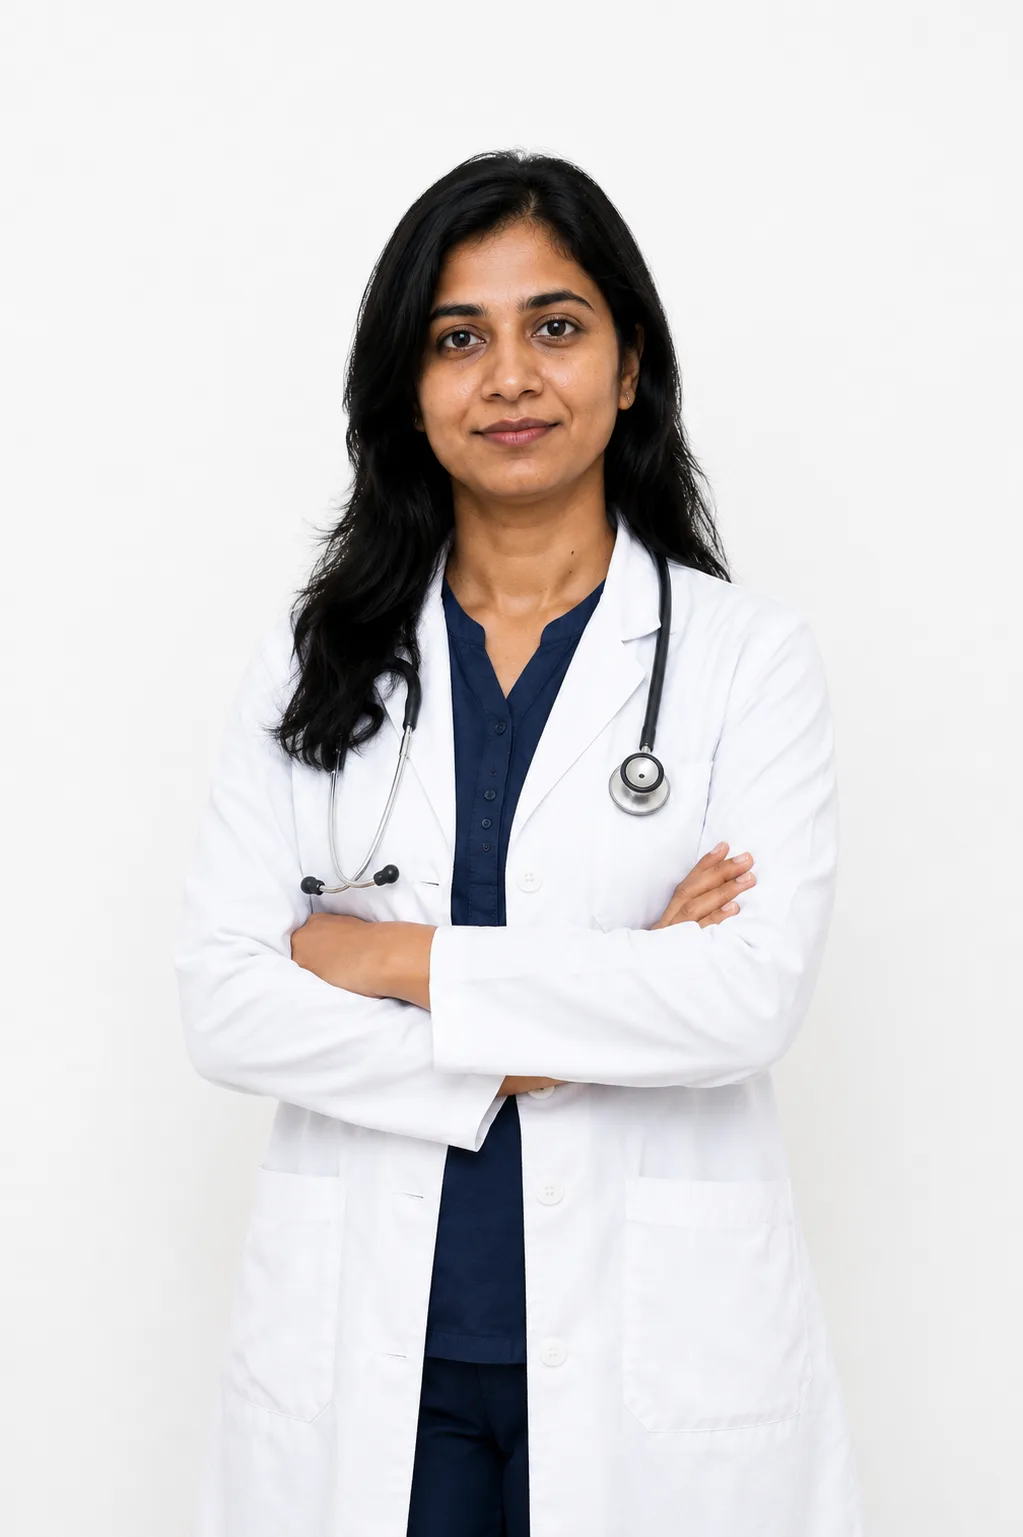
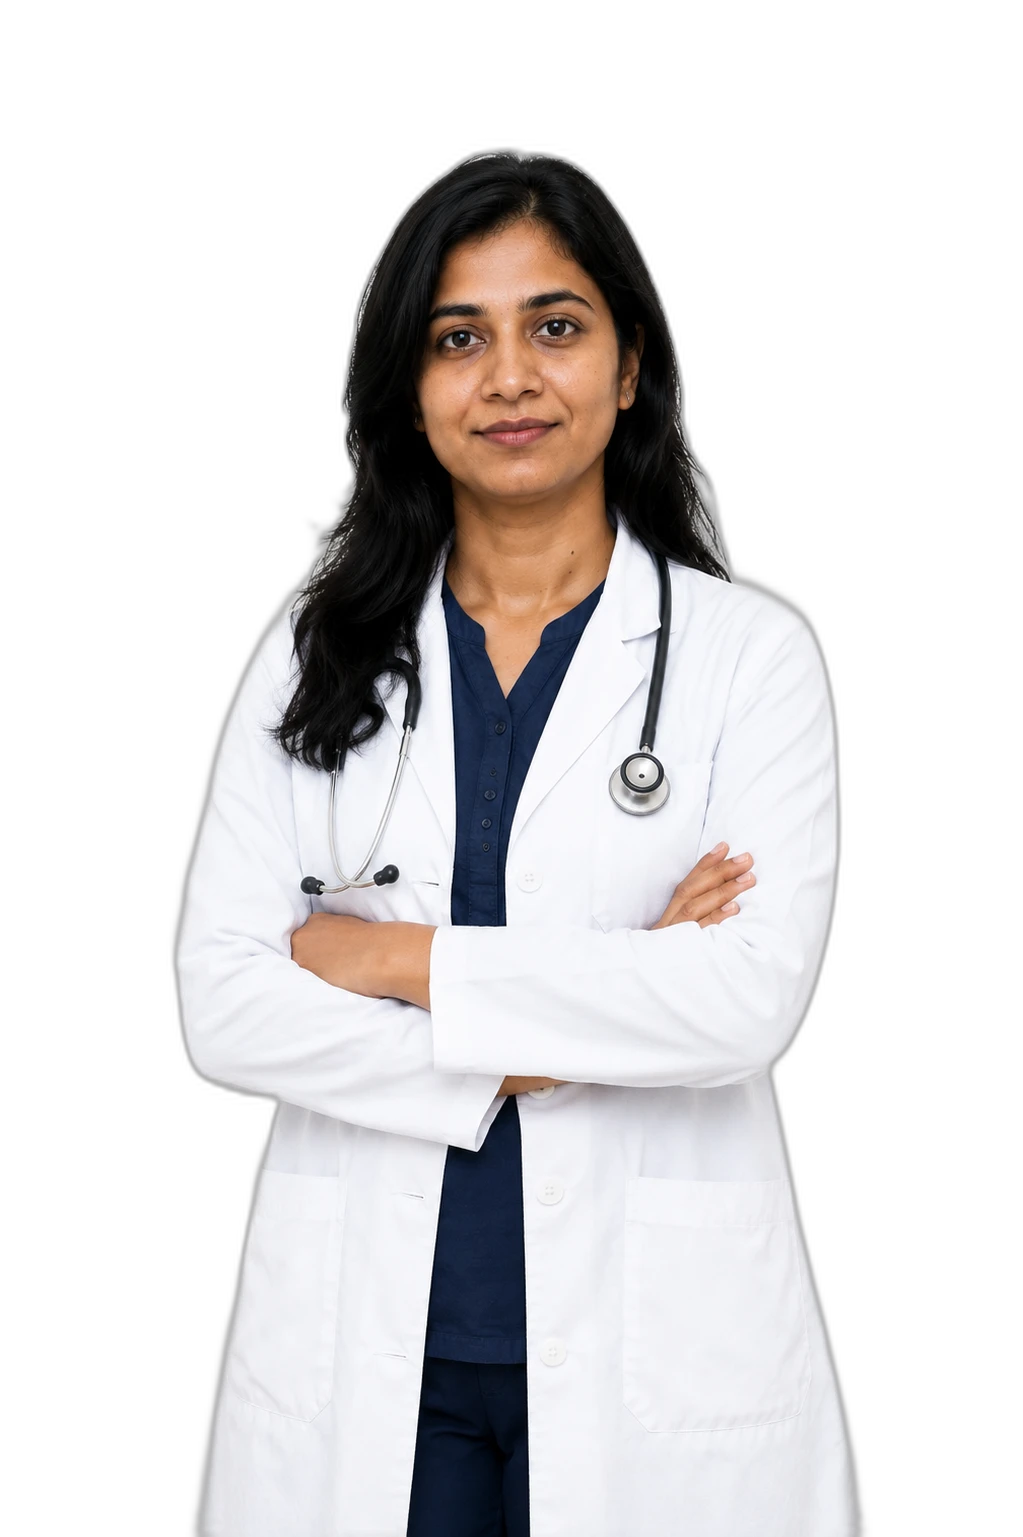
fix: doctor photo showing as a boxed cutout instead of blending in
Two issues reported against the "Built With Intent and Soul" section
after the first deploy:

1. Mobile: the image was reordered above the text (order: -1) so it
   would appear first on small screens, but that put it right at the
   top of the section -- when the section scrolled into view, the
   fixed nav header (position: fixed, z-index 1000) rendered directly
   on top of it. Removed the reorder; the photo now sits in its
   natural position after the text on mobile, same as desktop.

2. The photo itself was a plain studio photo (light grey backdrop,
   not a real cutout) with mix-blend-mode: multiply applied to try to
   fake transparency. That doesn't work here: the backdrop and the
   subject's white coat are both close to the same near-white RGB
   value, so multiply blending the whole image against the page's
   cream background left a visibly rectangular, slightly-darkened box
   instead of blending in -- multiply can't tell "this pixel is
   background" from "this pixel is a white coat highlight" the way an
   actual segmentation can.

   Replaced the source image with a real alpha-transparent cutout
   (rembg/u2net background removal, run locally) and removed the
   mix-blend-mode hack, which is no longer needed -- and was actively
   wrong now, since with true transparency it would have tinted the
   doctor's coat by multiplying it against the cream page background
   wherever it's opaque.

Verified in an actual browser: desktop now matches the reference
[…]

diff --git a/src/pages/Landing.tsx b/src/pages/Landing.tsx
@@ -1452,12 +1452,12 @@ const Landing = () => {
 }
 .soul-image-wrap img {
   width: 100%; height: 100%; object-fit: contain; object-position: bottom center;
-  mix-blend-mode: multiply; display: block;
+  display: block;
 }
 @media (max-width: 900px) {
   .soul-section { padding: 64px 24px; }
   .soul-inner { grid-template-columns: 1fr; gap: 40px; }
-  .soul-image-wrap { min-height: auto; height: 380px; order: -1; }
+  .soul-image-wrap { min-height: auto; height: 380px; }
 }`}
         </style>
         <div className="soul-inner">